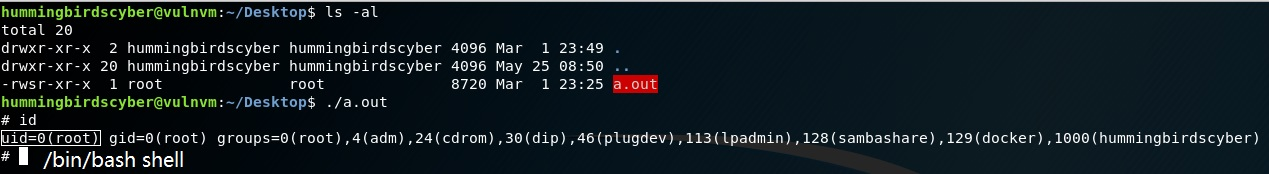
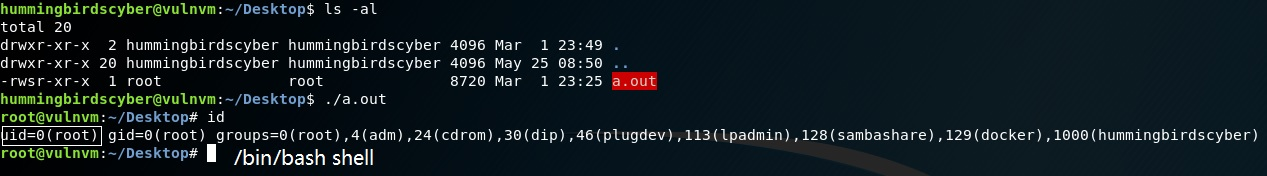
Updated final portions of hackinos-1

Changed region(s): [[0.0, 0.2299, 1.0, 0.977], [0.0, 0.0, 1.0, 0.2011], [0.6772, 0.9483, 0.7388, 1.0]]

diff --git a/hackinos-1.md b/hackinos-1.md
@@ -135,9 +135,8 @@ for ($i = 1; $i <= 100; $i++) {
 ![](/screenshots/hackinos-1/pathVariable.jpg)
 * In this case, `/home/hummingbirdscyber/bin` was the first directory to be searched.
 * This directory did not yet existed, so let us create it using `mkdir`.
-* After doing so, the brilliant idea that I learnt is that we will create our own malicious version of `whoami` (which will give us our root shell), which will contain a one-liner `/bin/bash` (or `/bin/sh`).
+* After doing so, the brilliant idea that I learnt is that we will create our own malicious version of `whoami` (which will give us our root shell), which will contain a one-liner `/bin/bash` (or `/bin/sh`), and this version will thus be executed by `a.out`, instead of the standard `whoami`.
 * Note: The text editor `vim` is not available, so I used `nano` instead.
-* Our version of `whoami` will thus be executed by `a.out`, instead of the standard `whoami`.
 * After creating our `whoami`, `chmod +x whoami` to give it permissions to be executable, else running `a.out` would not give us the root shell we desire.
 * Finally, run `./a.out` and we have our root shell!
 ![](/screenshots/hackinos-1/rootBinBash.jpg)
